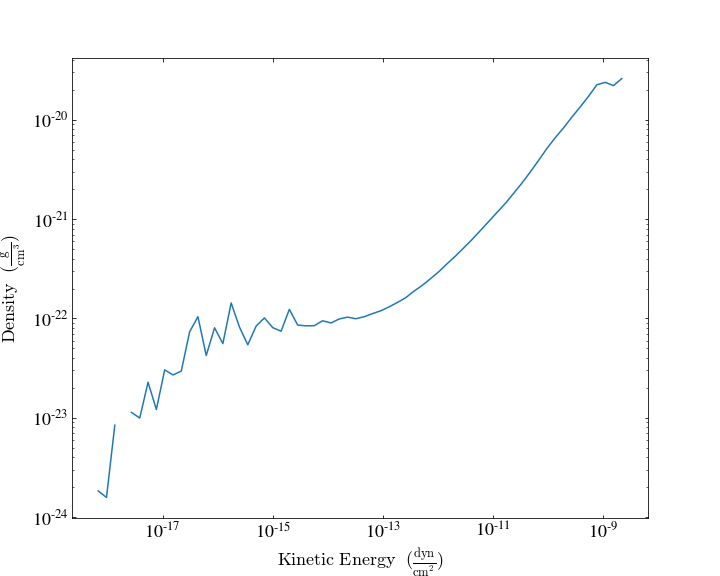
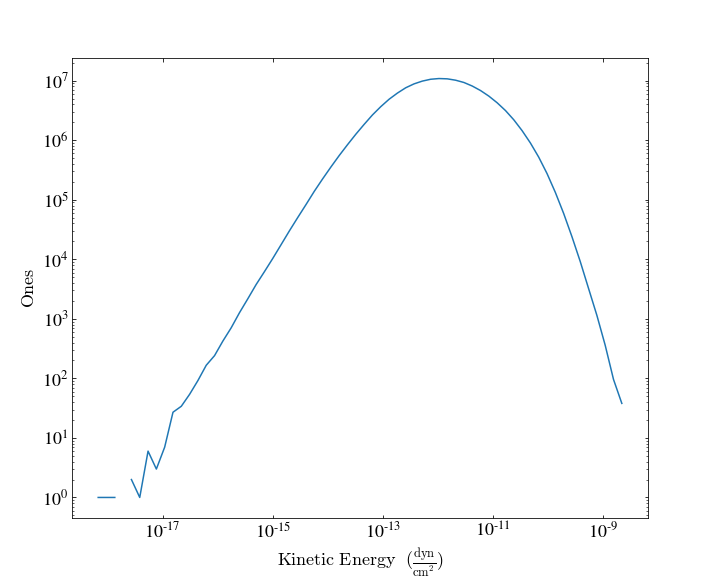
Updates Jan 17 PM

diff --git a/Assignment_1/Basic_Plots.py b/Assignment_1/Basic_Plots.py
@@ -71,12 +71,12 @@ plot_2D_PDF.save("2D_PDF_Density_RMS_Speed.png")
 '''
 
 #Plotting 1D PDF
-'''
-plot_1D_energy = yt.ProfilePlot(ad,"kinetic_energy","density")
-plot_1D_energy.save("1D_PDF_Energy.png")
-plot_1D_mass = yt.ProfilePlot(ad,"cell_mass","density")
-plot_1D_mass.save("1D_PDF_Mass.png")
-'''
+
+plot_1D_PDF_Density = yt.ProfilePlot(ad, "density", "ones", weight_field=None)
+plot_1D_PDF_Density.save("1D_PDF_Density.png")
+plot_1D_PDF_Energy = yt.ProfilePlot(ad, "kinetic_energy", "ones", weight_field=None)
+plot_1D_PDF_Energy.save("1D_PDF_Energy.png")
+
 #Plotting Mean Velocity Projection Weighted
 '''
 plot_weighted_projection_z = yt.ProjectionPlot(ds,"z","rms_speed",weight_field="cell_mass")
